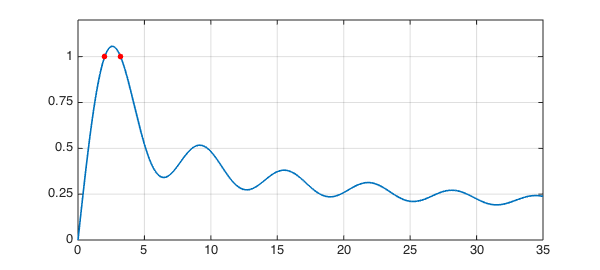
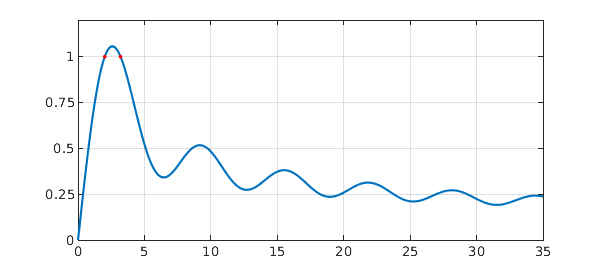
updating OptimInt

diff --git a/examples/opt/img/OptimInt.html b/examples/opt/img/OptimInt.html
@@ -17,30 +17,27 @@ $$ I(a) = \int_{-1}^1 \sin(x) + \sin(a x^2) dx = 1 ? $$
 
 <pre class="mcode-input">I = @(a) sum(chebfun(@(x) F(x,a)));</pre>We compute a chebfun of this result, for $a$ ranging from $0$ to $100$.
 
-<pre class="mcode-input">Ia = chebfun(@(a) I(a),[0 100],'vectorize');</pre>The `'vectorize'` flag is used, since $I$ can not be evaluated with a vector.
-
-We use Chebfun's `roots` command to find where $I(a)=1$.
+<pre class="mcode-input">Ia = chebfun(@(a) I(a),[0 100]);</pre>We use Chebfun's `roots` command to find where $I(a)=1$.
 
 <pre class="mcode-input">r = roots(Ia-1)</pre><pre class="mcode-output">r =
-   2.011698636650794
-   3.199526913460082
+   2.011698636650816
+   3.199526913460049
 </pre>We plot this, to make sure it looks sensible.
 
-<pre class="mcode-input">LW = 'linewidth'; MS = 'markersize';
-plot(Ia,LW,1.6), hold on, grid on
+<pre class="mcode-input">plot(Ia), hold on, grid on
 axis([0 35 0 1.2]), set(gca,'ytick',0:.25:1)
-plot(r,Ia(r),'.r',MS,20);</pre><img src="img/OptimInt_01.png" class="figure" alt="">
+plot(r,Ia(r),'.r');</pre><img src="img/OptimInt_01.png" class="figure" alt="">
 
 Since we have $I(a)$ as a chebfun, we can do other things, like find where $I(a) = 0.25$
 
 <pre class="mcode-input">r = roots(Ia-0.25)
-plot(r,Ia(r),'.k',MS,20), hold off</pre><pre class="mcode-output">r =
+plot(r,Ia(r),'.k'), hold off</pre><pre class="mcode-output">r =
    0.378866771015907
-  18.225950880000603
-  19.761174831761753
-  23.753831561562048
-  26.956276286229929
-  29.291546747613694
+  18.225950880000607
+  19.761174831761743
+  23.753831561562023
+  26.956276286229951
+  29.291546747613683
 </pre><img src="img/OptimInt_02.png" class="figure" alt="">
 
 or the value of $a$ which maximises $I(a)$
@@ -51,5 +48,5 @@ or the value of $a$ which maximises $I(a)$
 
 <pre class="mcode-input">[y x] = min(Ia,'local');
 f = std(diff(x(2:end-1)))</pre><pre class="mcode-output">f =
-   0.008984009280336
+   0.008984009280341
 </pre>

diff --git a/examples/opt/OptimInt.html b/examples/opt/OptimInt.html
@@ -71,35 +71,33 @@
 <pre class="mcode-input">I = @(a) sum(chebfun(@(x) F(x,a)));</pre>
 
 <p>We compute a chebfun of this result, for $a$ ranging from $0$ to $100$.</p>
-<pre class="mcode-input">Ia = chebfun(@(a) I(a),[0 100],'vectorize');</pre>
+<pre class="mcode-input">Ia = chebfun(@(a) I(a),[0 100]);</pre>
 
-<p>The <code>'vectorize'</code> flag is used, since $I$ can not be evaluated with a vector.</p>
 <p>We use Chebfun's <code>roots</code> command to find where $I(a)=1$.</p>
 <pre class="mcode-input">r = roots(Ia-1)</pre>
 
 <pre class="mcode-output">r =
-   2.011698636650794
-   3.199526913460082
+   2.011698636650816
+   3.199526913460049
 </pre>
 
 <p>We plot this, to make sure it looks sensible.</p>
-<pre class="mcode-input">LW = 'linewidth'; MS = 'markersize';
-plot(Ia,LW,1.6), hold on, grid on
+<pre class="mcode-input">plot(Ia), hold on, grid on
 axis([0 35 0 1.2]), set(gca,'ytick',0:.25:1)
-plot(r,Ia(r),'.r',MS,20);</pre>
+plot(r,Ia(r),'.r');</pre>
 
 <p><img src="img/OptimInt_01.png" class="figure" alt=""></p>
 <p>Since we have $I(a)$ as a chebfun, we can do other things, like find where $I(a) = 0.25$</p>
 <pre class="mcode-input">r = roots(Ia-0.25)
-plot(r,Ia(r),'.k',MS,20), hold off</pre>
+plot(r,Ia(r),'.k'), hold off</pre>
 
 <pre class="mcode-output">r =
    0.378866771015907
-  18.225950880000603
-  19.761174831761753
-  23.753831561562048
-  26.956276286229929
-  29.291546747613694
+  18.225950880000607
+  19.761174831761743
+  23.753831561562023
+  26.956276286229951
+  29.291546747613683
 </pre>
 
 <p><img src="img/OptimInt_02.png" class="figure" alt=""></p>
@@ -115,7 +113,7 @@ plot(r,Ia(r),'.k',MS,20), hold off</pre>
 f = std(diff(x(2:end-1)))</pre>
 
 <pre class="mcode-output">f =
-   0.008984009280336
+   0.008984009280341
 </pre></div>
         </div>
     </div>

diff --git a/index.html b/index.html
@@ -269,5 +269,5 @@ plot(minx(1),minx(2),'.w')
     <script type="text/javascript" src="/js/config.js"></script>
     <script type="text/javascript" src="/js/jquery.flexslider-min.js"></script>
   </body>
-<!-- Compiled on Thursday, 15 April 2021 at 11:12. -->
+<!-- Compiled on Thursday, 15 April 2021 at 11:21. -->
 </html>

diff --git a/examples/opt/OptimInt.m b/examples/opt/OptimInt.m
@@ -28,11 +28,7 @@ I = @(a) sum(chebfun(@(x) F(x,a)));
 
 %%
 % We compute a chebfun of this result, for $a$ ranging from $0$ to $100$.
-Ia = chebfun(@(a) I(a),[0 100],'vectorize');
-
-%%
-% The `'vectorize'` flag is used, since $I$ can not be evaluated with a
-% vector.
+Ia = chebfun(@(a) I(a),[0 100]);
 
 %%
 % We use Chebfun's `roots` command to find where $I(a)=1$.
@@ -40,16 +36,15 @@ r = roots(Ia-1)
 
 %%
 % We plot this, to make sure it looks sensible.
-LW = 'linewidth'; MS = 'markersize';
-plot(Ia,LW,1.6), hold on, grid on
+plot(Ia), hold on, grid on
 axis([0 35 0 1.2]), set(gca,'ytick',0:.25:1)
-plot(r,Ia(r),'.r',MS,20);
+plot(r,Ia(r),'.r');
 
 %%
 % Since we have $I(a)$ as a chebfun, we can do other things, like find where
 % $I(a) = 0.25$
 r = roots(Ia-0.25)
-plot(r,Ia(r),'.k',MS,20), hold off
+plot(r,Ia(r),'.k'), hold off
 
 %%
 % or the value of $a$ which maximises $I(a)$
